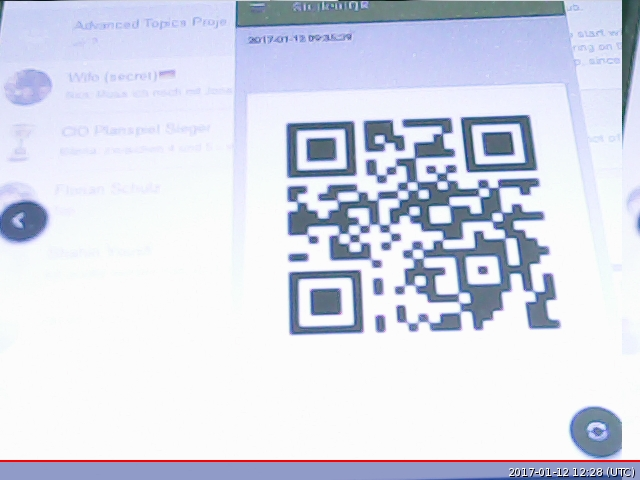
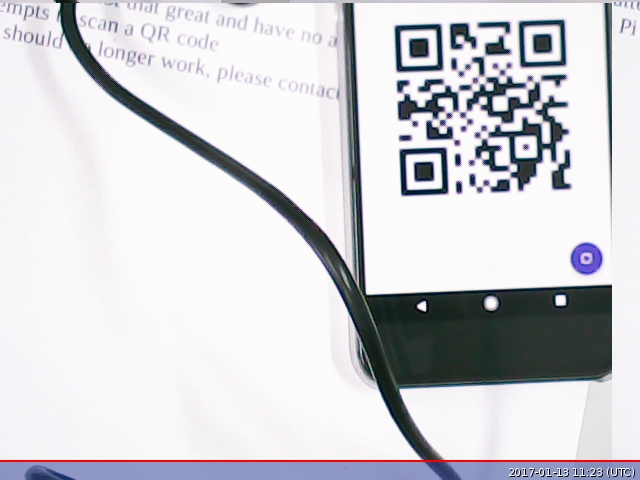
did a short jsonParse and request example

diff --git a/pi/Project/parseJson.py b/pi/Project/parseJson.py
@@ -1,0 +1,29 @@
+import json
+import requests
+from pprint import pprint
+
+payload = {"email":"pi@ase-in.tum.de","password":"asepi123","returnSecureToken": "true"}
+url = "https://www.googleapis.com/identitytoolkit/v3/relyingparty/verifyPassword?key=AIzaSyDW2PaX5m9MwqGDKK-mSLFFfCscbJfF5ek"
+
+r = requests.post(url, json=payload)
+data = json.loads(r.text)
+
+pprint(data["idToken"])
+
+urlGetUserTokenForWeek = "https://ase-pi-project.firebaseio.com/user/oXlgffDsWrZREwaKmKpxzBw2aOm2/week/1.json?auth="+data["idToken"]
+userTokenRequest = requests.get(urlGetUserTokenForWeek, json=payload)
+userTokenData = json.loads(userTokenRequest.text)
+
+pprint(userTokenData["token"])
+
+if str(userTokenData["token"]) == "1.oXlgffDsWrZREwaKmKpxzBw2aOm2.randomToken":
+    userAttendedPayload = {"verified_status":"true"}
+    urlPatchUser = "https://ase-pi-project.firebaseio.com/user/oXlgffDsWrZREwaKmKpxzBw2aOm2/week/1.json?auth=" + data["idToken"]
+    userAttendedRequest = requests.patch(urlPatchUser, json=userAttendedPayload)
+    userAttendedData = json.loads(userAttendedRequest.text)
+    pprint(userAttendedData["verified_status"])
+else:
+    pprint("Damn, userToken not correct")
+
+# for presentation it should be a patch request on userid/bonusStatus.json...
+# payload = {"presented":"true}

diff --git a/pi/Project/camera.py b/pi/Project/camera.py
@@ -5,24 +5,31 @@ import sys
 #import pyqrcode
 #import cv2
 import pifacecad
+import time
+import os
 
-cad=pifacecad.PiFaceCAD()
-listener=pifacecad.SwitchEventListener(chip=cad)
-
-if cad.switches[4].value == 1:
+def checkQR(event):
 	subprocess.call("fswebcam -r 640x480  image.jpg",shell=True)
 	cad.lcd.set_cursor(0,0)
 	cad.lcd.write("Taking Photo")
-else: 
-	cad.lcd.set_cursor(0,0)
-	cad.lcd.write("Fertig")
+	file_path = './image.jpg'
+	with open(file_path,'rb') as image_file:
+		image=Image.open(image_file)
+		image.load()
 	
-file_path = './image.jpg'
-with open(file_path,'rb') as image_file:
-	image=Image.open(image_file)
-	image.load()
-codes = zbarlight.scan_codes('qrcode',image)
-print('QR codes: %s'%codes)
+	codes = zbarlight.scan_codes('qrcode',image)
+	# remove double quotes
+	print('QR codes: %s'%codes)
+	cad.lcd.clear()
+	cad.lcd.set_cursor(0,0)
+	cad.lcd.write(str(codes))
+
+cad=pifacecad.PiFaceCAD()
+listener=pifacecad.SwitchEventListener(chip=cad)
+listener.register(4, pifacecad.IODIR_FALLING_EDGE, checkQR)
+listener.activate()
+
+
 #if d.decode('image.jpg'):
 	#cad.lcd.write('result: '+d.result)
 #	print("result"+d.result)

diff --git a/pi/Project/bulkload.py b/pi/Project/bulkload.py
@@ -1,0 +1,10 @@
+#def bulk_load_enter(name):
+	f=open('attendence.csv','a')
+	f.write(name+'\n')
+
+#def bulk_load():
+	f=open('attendence.csv','r')
+	for line in f
+		database_add_student(line 
+
+	

diff --git a/pi/Project/database.py b/pi/Project/database.py
@@ -1,0 +1,2 @@
+def: enterStudent(token)
+	
